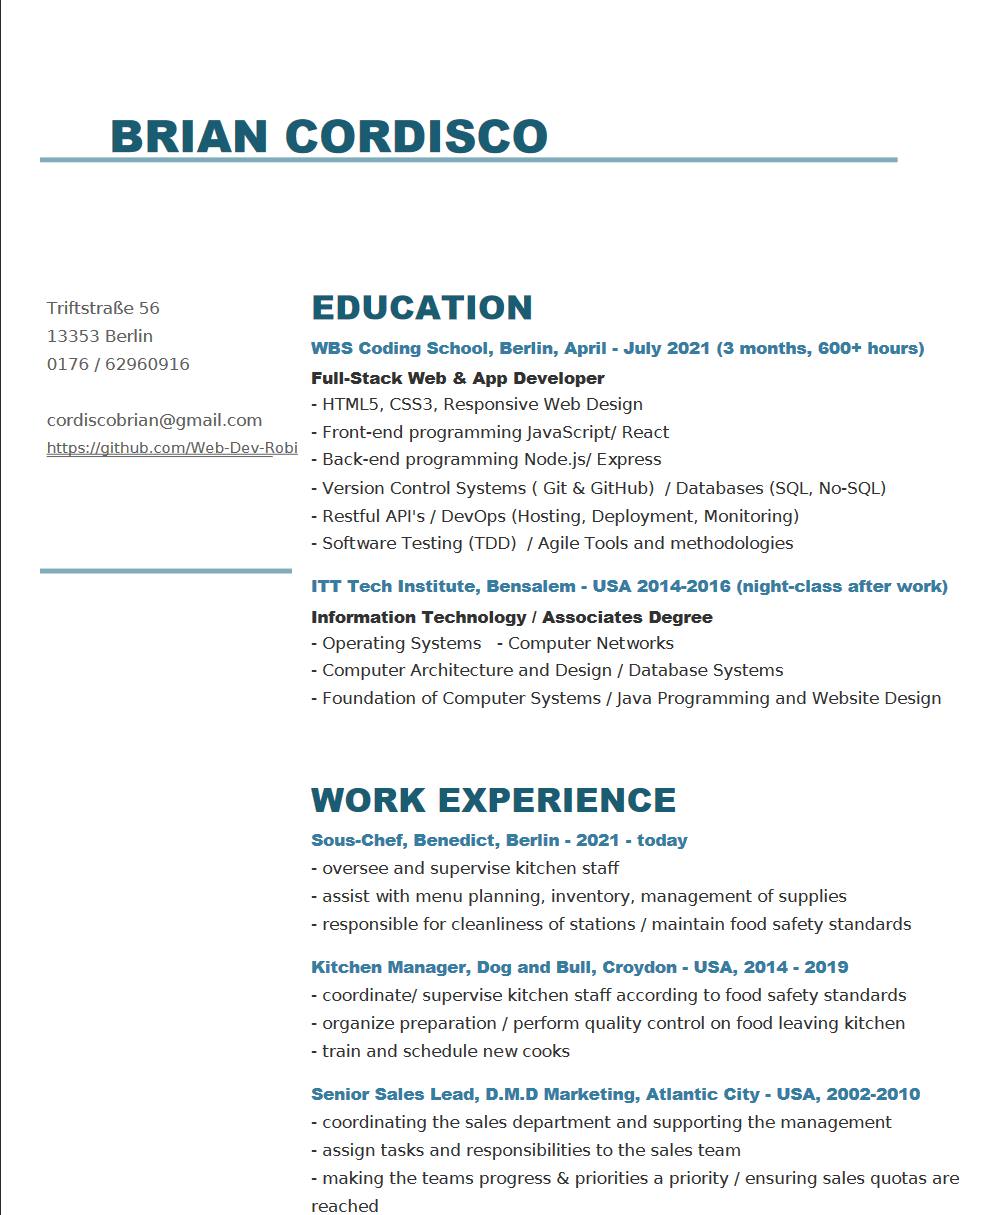
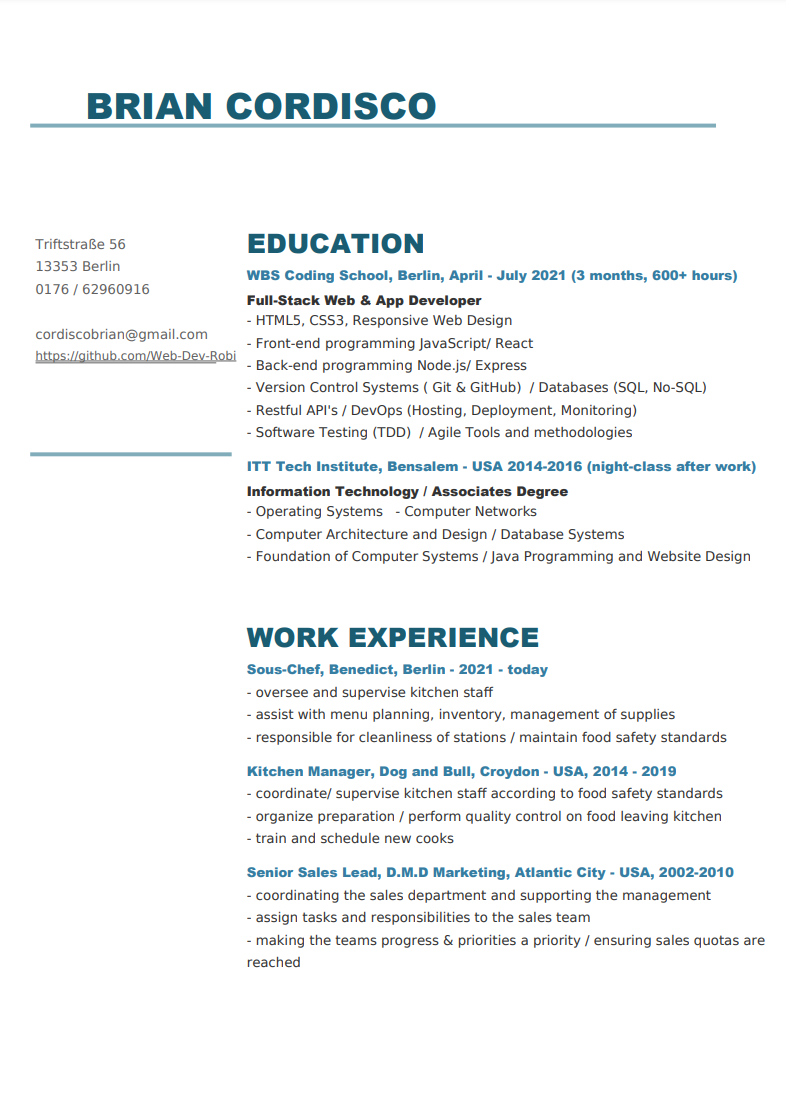
fixing image loading

Changed region(s): [[0.0305, 0.1825, 0.9771, 1.0], [0.0305, 0.0608, 0.916, 0.1521]]

diff --git a/src/components/WideNav.jsx b/src/components/WideNav.jsx
@@ -5,41 +5,55 @@ import styles from "../components/styles/WideNav.module.css";
 
 function WideNav() {
   return (
-    <div className={styles.container}>
-      <div className={styles.nav_container}>
-        <div className={styles.nav_left}>
-          <div className={styles.circle}>
-            <SiCircle />
-          </div>
-          <Link to="/">Brian Cordisco</Link>
-        </div>
-        <div className={styles.nav_right}>
-          <a href="https://github.com/Web-Dev-Robi" className={styles.git}>
-            GitHub
-          </a>
-          <a href="https://twitter.com/Web_Dev_Robi" className={styles.twitter}>
-            Twitter
-          </a>
-          <a
-            href="https://www.linkedin.com/in/brian-cordisco-500250205/"
-            className={styles.linkedin}
-          >
-            Linkedin
-          </a>
-          <div className={styles.nav_buttons}>
-            <div className={styles.circle}>
-              <SiCircle />
-            </div>
-            <Link to="/" className={styles.home_button}>
-              Home
-            </Link>
-            <Link to="/aboutme" className={styles.about_button}>
-              About
-            </Link>
-          </div>
-        </div>
-      </div>
-    </div>
+		<div className={styles.container}>
+			<div className={styles.nav_container}>
+				<div className={styles.nav_left}>
+					<div className={styles.circle}>
+						<SiCircle />
+					</div>
+					<Link to="/">Brian Cordisco</Link>
+				</div>
+				<div className={styles.nav_right}>
+					<a
+						href="https://github.com/Web-Dev-Robi"
+						className={styles.git}>
+						GitHub
+					</a>
+					<a
+						href="https://twitter.com/Web_Dev_Robi"
+						className={styles.twitter}>
+						Twitter
+					</a>
+					<a
+						href="https://www.linkedin.com/in/brian-cordisco-500250205/"
+						className={styles.linkedin}>
+						Linkedin
+					</a>
+					<Link to='/cv'>
+						<a
+							href="null"
+							className={styles.cv}>
+							CV
+						</a>
+					</Link>
+					<div className={styles.nav_buttons}>
+						<div className={styles.circle}>
+							<SiCircle />
+						</div>
+						<Link
+							to="/"
+							className={styles.home_button}>
+							Home
+						</Link>
+						<Link
+							to="/aboutme"
+							className={styles.about_button}>
+							About
+						</Link>
+					</div>
+				</div>
+			</div>
+		</div>
   );
 }
 

diff --git a/src/components/pages/Green.jsx b/src/components/pages/Green.jsx
@@ -1,0 +1,45 @@
+import green from "../assets/greenparty.png";
+import styles from "../styles/Projects.module.css";
+import { Link } from "react-router-dom";
+
+function Green() {
+	return (
+		<div>
+			<div>
+				<div className={styles.container}>
+					<div className={styles.flex_container}>
+						<div className={styles.image}>
+							<img
+								className={styles.image_image}
+								src={green}
+								alt="Gülşah Bayar Bio"
+								loading=" lazy"
+							/>
+						</div>
+						<div className={styles.title}>
+							<h2>
+								<a href="https://gulsah-bayar.vercel.app">
+									Gülşah Bayar
+								</a>
+							</h2>
+						</div>
+						<div className={styles.project_info}>
+							<p>
+								Lorem ipsum dolor, sit amet consectetur adipisicing elit. Eaque, optio ab pariatur illo eius quidem quae earum velit? Architecto iste, non repellendus reprehenderit illo quia enim officia numquam deleniti dolor vero odit quis beatae officiis eum ipsa praesentium cum corrupti ex doloremque! Cum esse minus praesentium distinctio tempore adipisci omnis alias, architecto harum culpa consequatur soluta dolore quaerat iusto exercitationem labore modi? Ipsum nobis dolore pariatur repellendus suscipit odit architecto!
+							</p>
+						</div>
+						<div className={styles.project_nav}>
+							<p>Next Project:</p>
+							<div className={styles.pagination}>
+								<Link to="/github">❮</Link>
+								<Link to="/projects">❯</Link>
+							</div>
+						</div>
+					</div>
+				</div>
+			</div>
+		</div>
+	);
+}
+
+export default Green;

diff --git a/src/App.js b/src/App.js
@@ -13,6 +13,7 @@ import Contact from './components/pages/Contact';
 import Cv from './components/pages/Cv';
 import TextToImage from './components/pages/TextToImage';
 import GitHub from './components/pages/GitHub';
+import Green from './components/pages/Green';
 
 
 
@@ -34,6 +35,7 @@ function App() {
             <Route path='/cv' element={<Cv />} />
             <Route path='/texttoimage' element={<TextToImage />}/>
             <Route path='/github' element={<GitHub />}/>
+            <Route path='/green' element={<Green />}/>
           </Routes>
         </main>
         <Footer />

diff --git a/src/components/pages/GitHub.jsx b/src/components/pages/GitHub.jsx
@@ -43,7 +43,7 @@ function GitHub() {
               <p>Next Project:</p>
               <div className={styles.pagination}>
                 <Link to="/texttoimage">❮</Link>
-                <Link>❯</Link>
+                <Link to="/green">❯</Link>
               </div>
             </div>
           </div>

diff --git a/public/index.html b/public/index.html
@@ -13,7 +13,7 @@
    
     <link rel="manifest" href="%PUBLIC_URL%/manifest.json" />
     
-    <title>H!, Im Brian</title>
+    <title>Hi, I'm Brian</title>
   </head>
   <body>
     <div id="root"></div>

diff --git a/src/components/styles/Projects.module.css b/src/components/styles/Projects.module.css
@@ -17,12 +17,14 @@
 
 img {
   border-radius: 15px;
+  width: 100%;
 }
 
 .image {
   margin-left: auto;
   margin-right: auto;
   align-self: center;
+  border: solid 3px green;
 }
 
 .title a {

diff --git a/src/components/pages/Cv.jsx b/src/components/pages/Cv.jsx
@@ -1,5 +1,5 @@
 import React from "react";
-import cv from "../assets/cv.png";
+import cv from "../assets/Cv.png";
 import styles from "../styles/Cv.module.css";
 
 function Cv() {

diff --git a/src/components/styles/WideNav.module.css b/src/components/styles/WideNav.module.css
@@ -44,7 +44,8 @@
 
 .git,
 .twitter,
-.linkedin {
+.linkedin,
+.cv {
 	font-family: "Monofett", cursive;
 	font-size: xx-large;
 	color: RGB(4, 255, 247);
